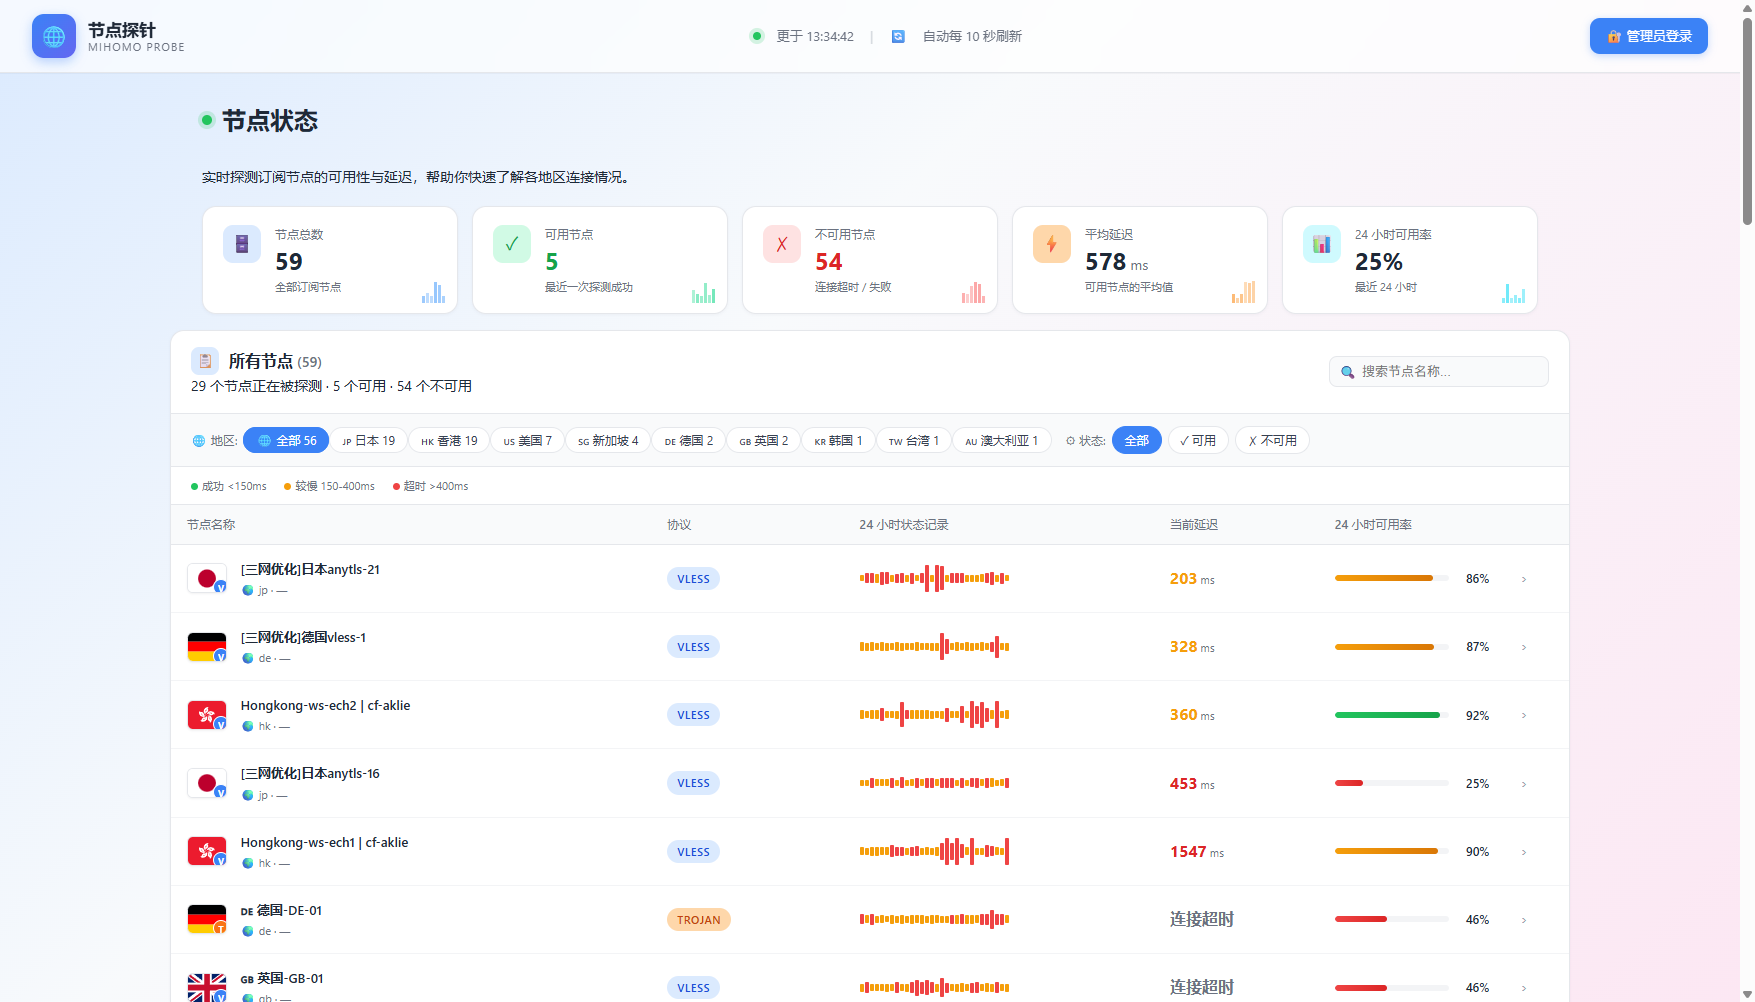
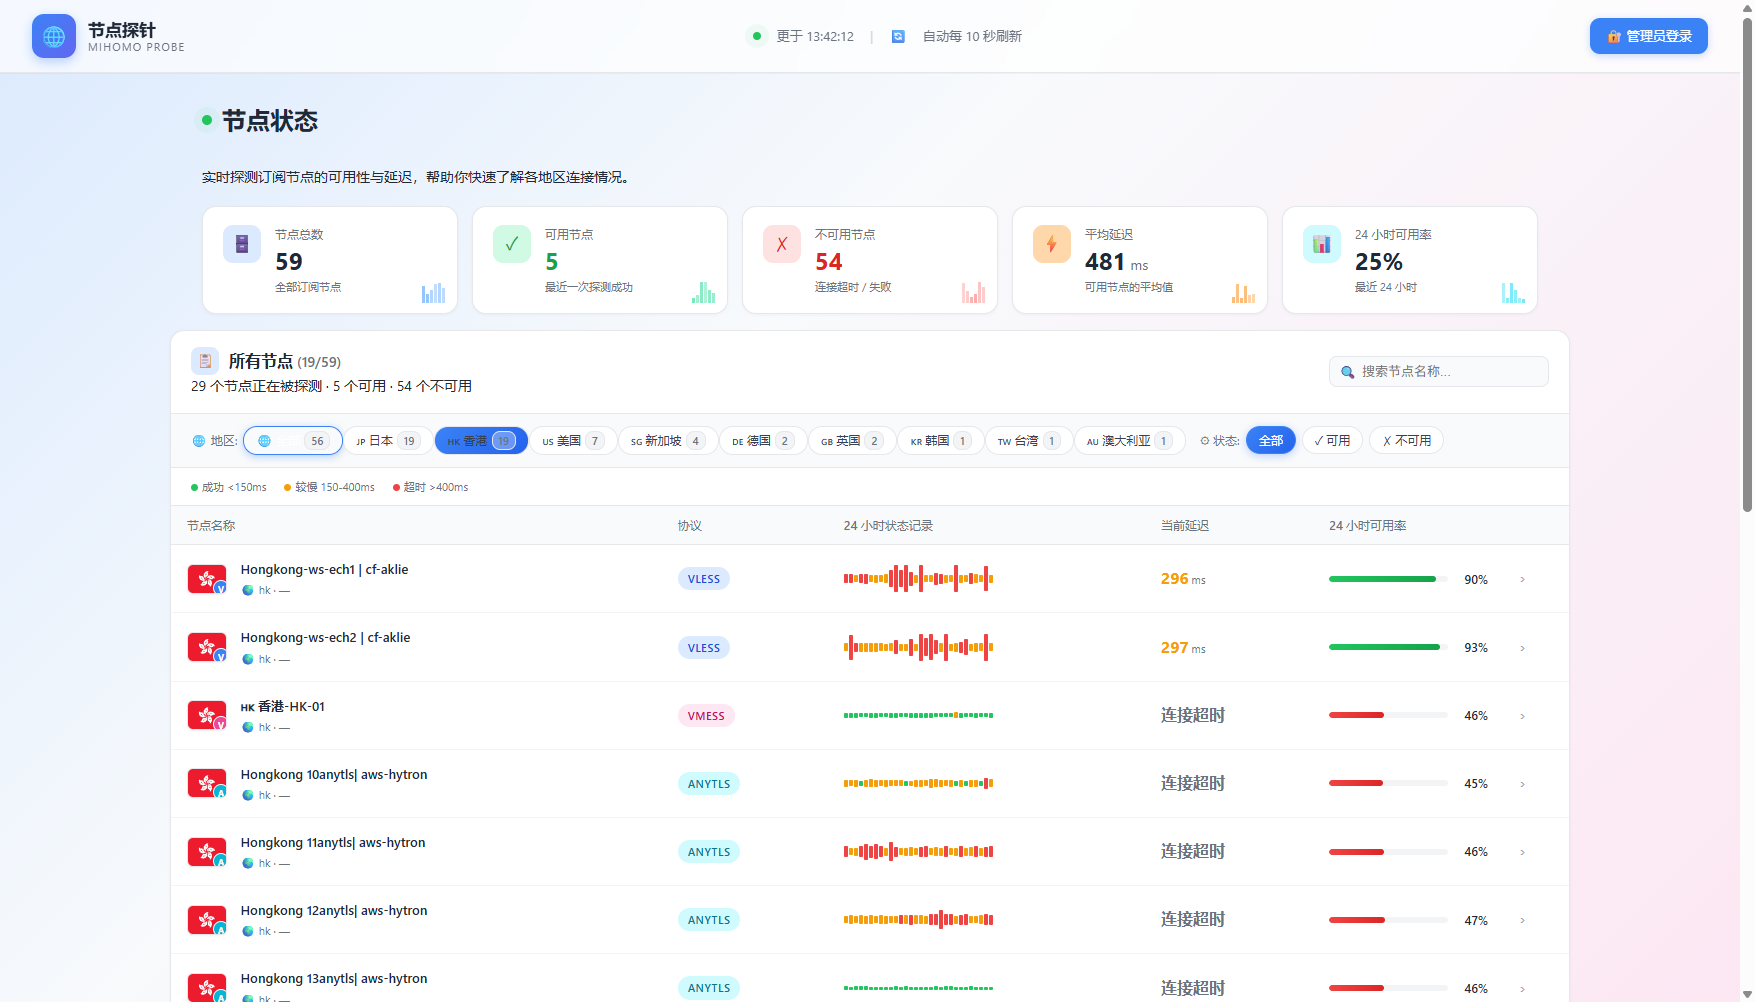
perf(ui): 筛选操作改用 DOM toggle，避免重绘整张表
- 性能：点击响应从 ~几十 ms 降到 1.4ms（轻量 row.display 切换）
- 视觉：chip 加 阴影 + 1px 浮动 + 缩放 0.96 + 数字徽章
- 激活态：渐变蓝 + box-shadow + 数字徽章半透明白底
- 标题副标题更新为 (19/59) 实时显示可见/总数
- 地区/状态/搜索三个筛选全部走 applyFilterToggle() 统一路径
- 完全保留 render() 入口，给未来 sort/重新拉取用

diff --git a/backend/static/index.html b/backend/static/index.html
@@ -164,10 +164,26 @@
       padding: 4px 12px; border-radius: 14px;
       background: var(--panel); border: 1px solid var(--border);
       font-size: 12px; color: var(--text-2); cursor: pointer;
-      transition: all .12s; user-select: none;
+      transition: all .15s ease; user-select: none;
+      display: inline-flex; align-items: center; gap: 4px;
     }
-    .filter-row .chip.active { background: var(--blue); color: #fff; border-color: var(--blue); }
-    .filter-row .chip:hover:not(.active) { border-color: var(--blue); }
+    .filter-row .chip:hover:not(.active) {
+      border-color: var(--blue); color: var(--blue);
+      transform: translateY(-1px); box-shadow: 0 2px 6px rgba(59, 130, 246, .12);
+    }
+    .filter-row .chip:active { transform: scale(0.96); }
+    .filter-row .chip.active {
+      background: linear-gradient(135deg, #3b82f6, #2563eb);
+      color: #fff; border-color: var(--blue);
+      box-shadow: 0 2px 8px rgba(59, 130, 246, .35);
+    }
+    .filter-row .chip .badge {
+      background: rgba(255, 255, 255, .3); border-radius: 8px;
+      padding: 0 6px; font-size: 11px; font-weight: 600;
+    }
+    .filter-row .chip:not(.active) .badge {
+      background: var(--panel-3); color: var(--muted);
+    }
 
     .legend {
       padding: 10px 20px; display: flex; align-items: center; gap: 18px;
@@ -609,11 +625,12 @@
       items.forEach(x => { if (x.country) counts[x.country] = (counts[x.country] || 0) + 1; });
       const sorted = Object.keys(counts).sort((a, b) => counts[b] - counts[a]);
       const el = document.getElementById('countryChips');
-      el.innerHTML = `<span class="chip ${activeCountries.size === 0 ? 'active' : ''}" data-country="">🌐 全部 ${counts ? Object.values(counts).reduce((a,b)=>a+b,0) : ''}</span>` +
+      const totalAll = Object.values(counts).reduce((a, b) => a + b, 0);
+      el.innerHTML = `<span class="chip ${activeCountries.size === 0 ? 'active' : ''}" data-country="">🌐 全部 <span class="badge">${totalAll}</span></span>` +
         sorted.map(c => {
           const info = COUNTRY_DISPLAY[c] || { flag: '🌍', name: c };
           const on = activeCountries.has(c);
-          return `<span class="chip ${on ? 'active' : ''}" data-country="${c}">${info.flag} ${escapeHtml(info.name)} ${counts[c]}</span>`;
+          return `<span class="chip ${on ? 'active' : ''}" data-country="${c}">${info.flag} ${escapeHtml(info.name)} <span class="badge">${counts[c]}</span></span>`;
         }).join('');
       el.querySelectorAll('.chip').forEach(chip => {
         chip.onclick = () => {
@@ -621,9 +638,40 @@
           if (c === '') activeCountries.clear();
           else if (activeCountries.has(c)) activeCountries.delete(c);
           else activeCountries.add(c);
-          render();
+          applyFilterToggle();
         };
       });
+    }
+
+    // 轻量过滤：直接 toggle 行 display，不重绘 DOM
+    function applyFilterToggle() {
+      // 同步 chip active 状态（地区 + 状态）
+      document.querySelectorAll('#countryChips .chip').forEach(chip => {
+        const c = chip.dataset.country;
+        const on = c === '' ? activeCountries.size === 0 : activeCountries.has(c);
+        chip.classList.toggle('active', on);
+      });
+      document.querySelectorAll('[data-status]').forEach(chip => {
+        chip.classList.toggle('active', chip.dataset.status === activeStatus);
+      });
+      // 切换 tr 显示（不重绘 DOM，毫秒级响应）
+      const rows = document.querySelectorAll('#probeTbody tr[data-name]');
+      let visible = 0;
+      const searchLower = searchText.trim().toLowerCase();
+      rows.forEach(tr => {
+        const item = lastItems.find(x => x.name === tr.dataset.name);
+        if (!item) return;
+        const countryOk = activeCountries.size === 0 || activeCountries.has(item.country);
+        const statusOk = !activeStatus
+          || (activeStatus === 'up' && item.status === 'up')
+          || (activeStatus === 'down' && item.status !== 'up');
+        const searchOk = !searchLower || item.name.toLowerCase().includes(searchLower);
+        const show = countryOk && statusOk && searchOk;
+        tr.style.display = show ? '' : 'none';
+        if (show) visible++;
+      });
+      const total = lastItems.length;
+      document.getElementById('nodeCount').textContent = `(${visible}/${total})`;
     }
 
     function render() {
@@ -674,15 +722,13 @@
     // 搜索
     document.getElementById('searchInput').addEventListener('input', (e) => {
       searchText = e.target.value;
-      render();
+      applyFilterToggle();
     });
     // 状态筛选
     document.querySelectorAll('[data-status]').forEach(chip => {
       chip.onclick = () => {
-        document.querySelectorAll('[data-status]').forEach(c => c.classList.remove('active'));
-        chip.classList.add('active');
         activeStatus = chip.dataset.status;
-        render();
+        applyFilterToggle();
       };
     });
 
